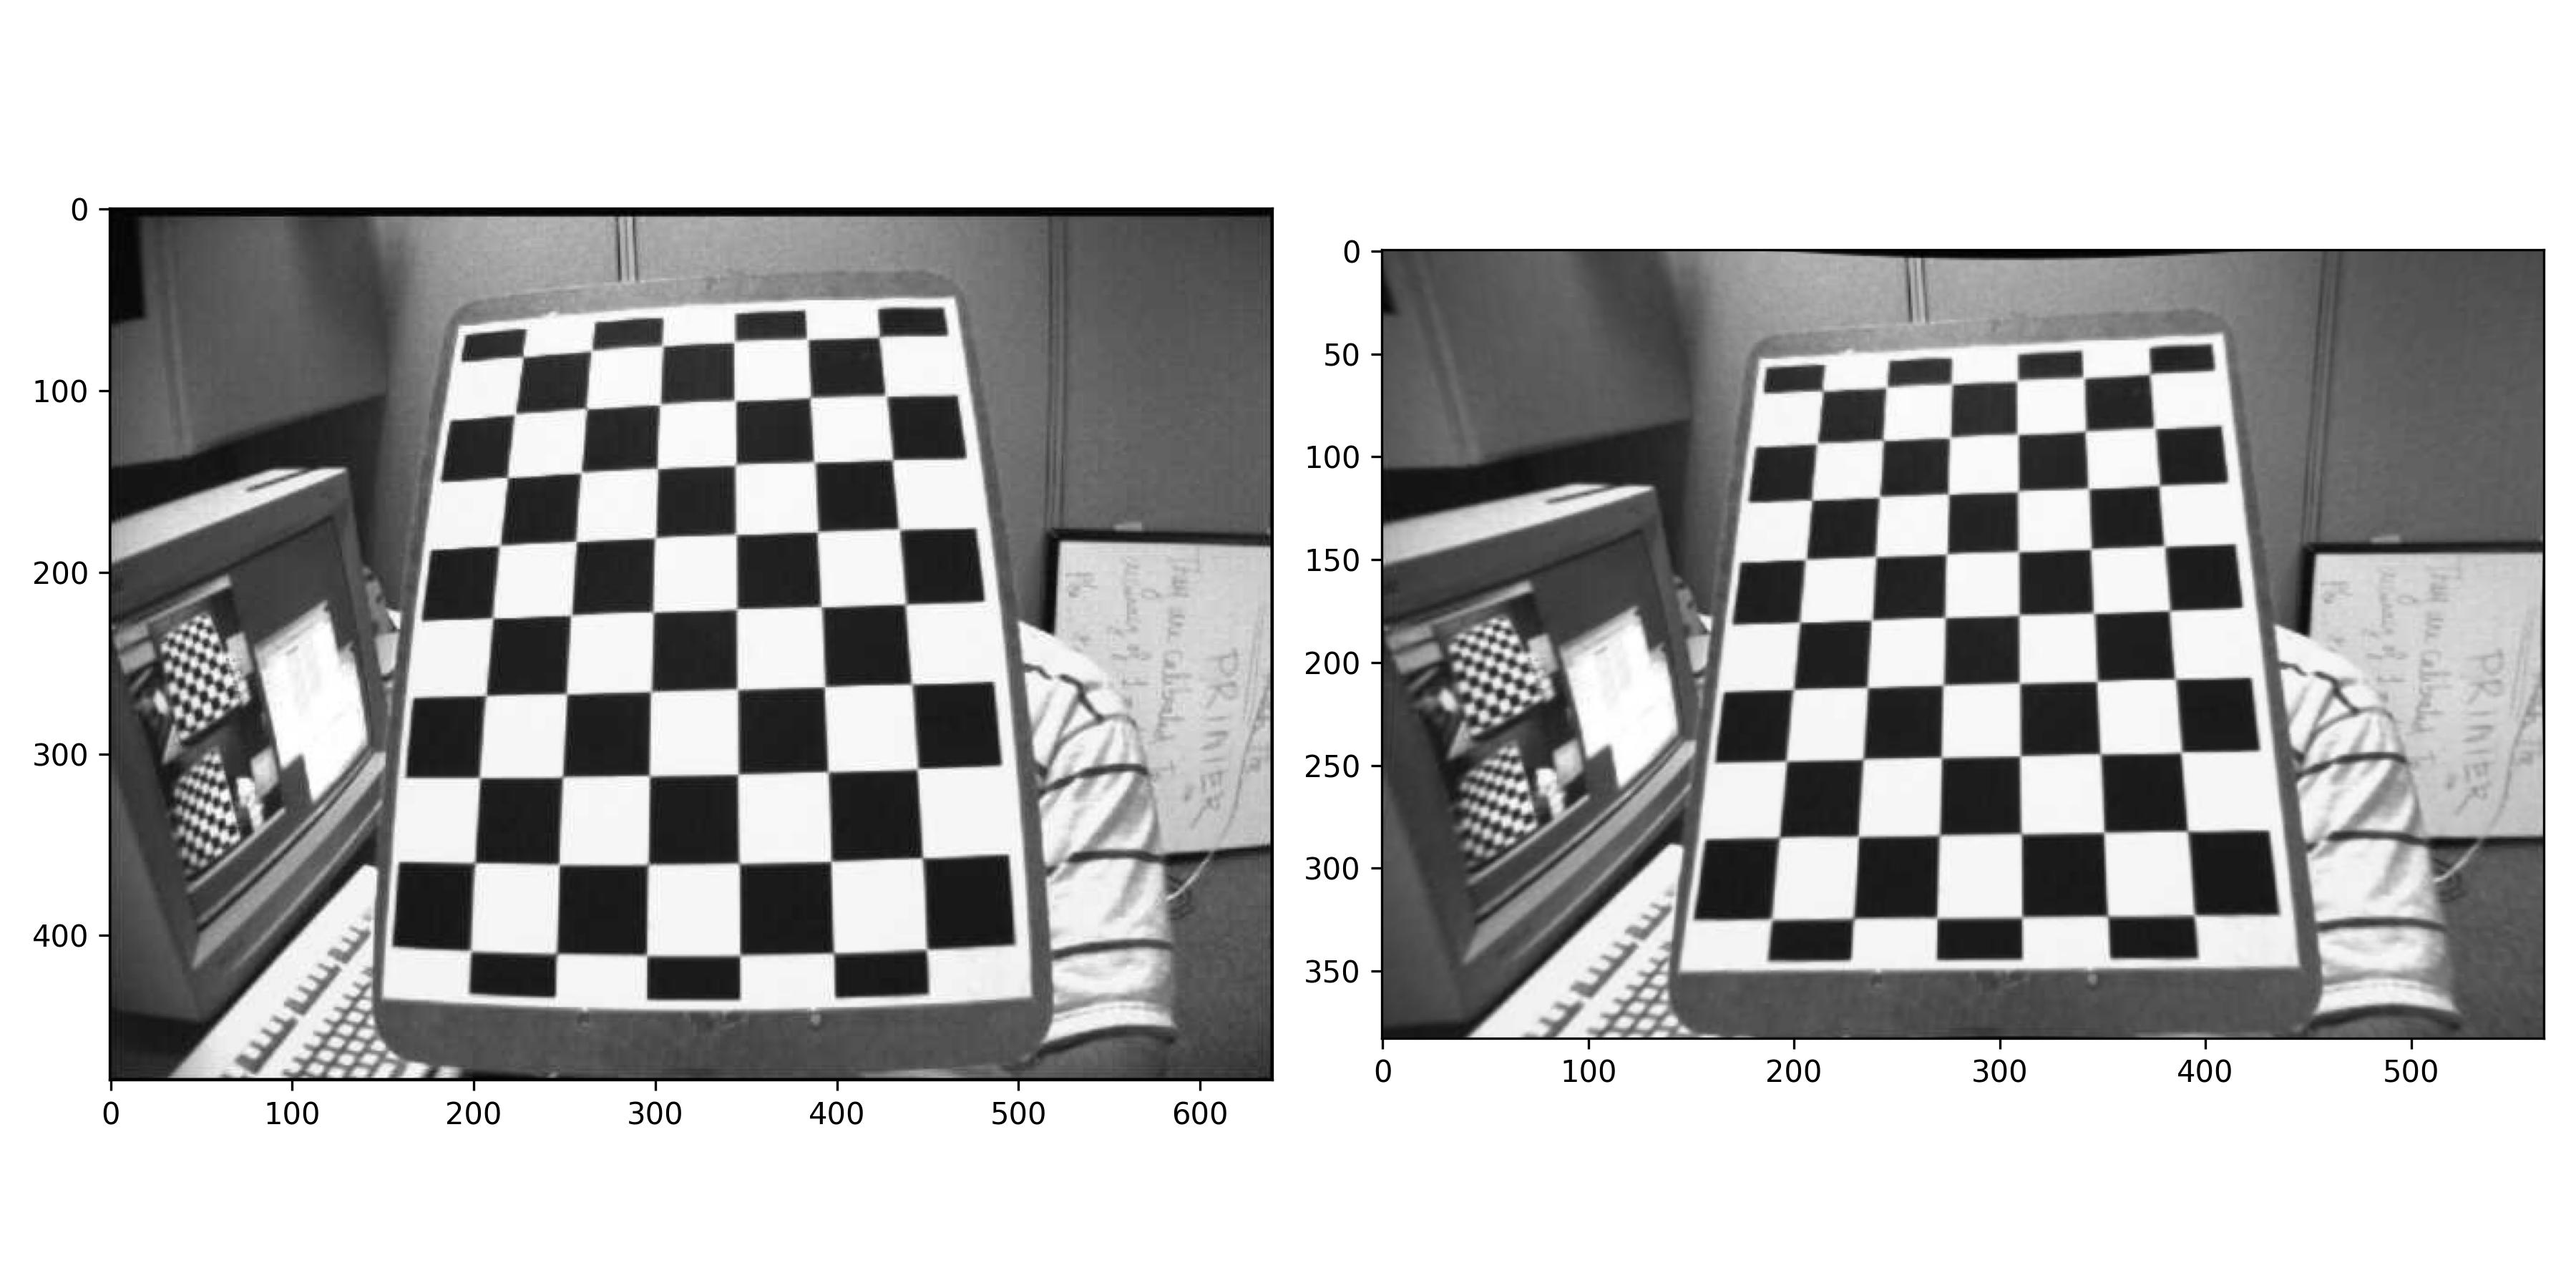
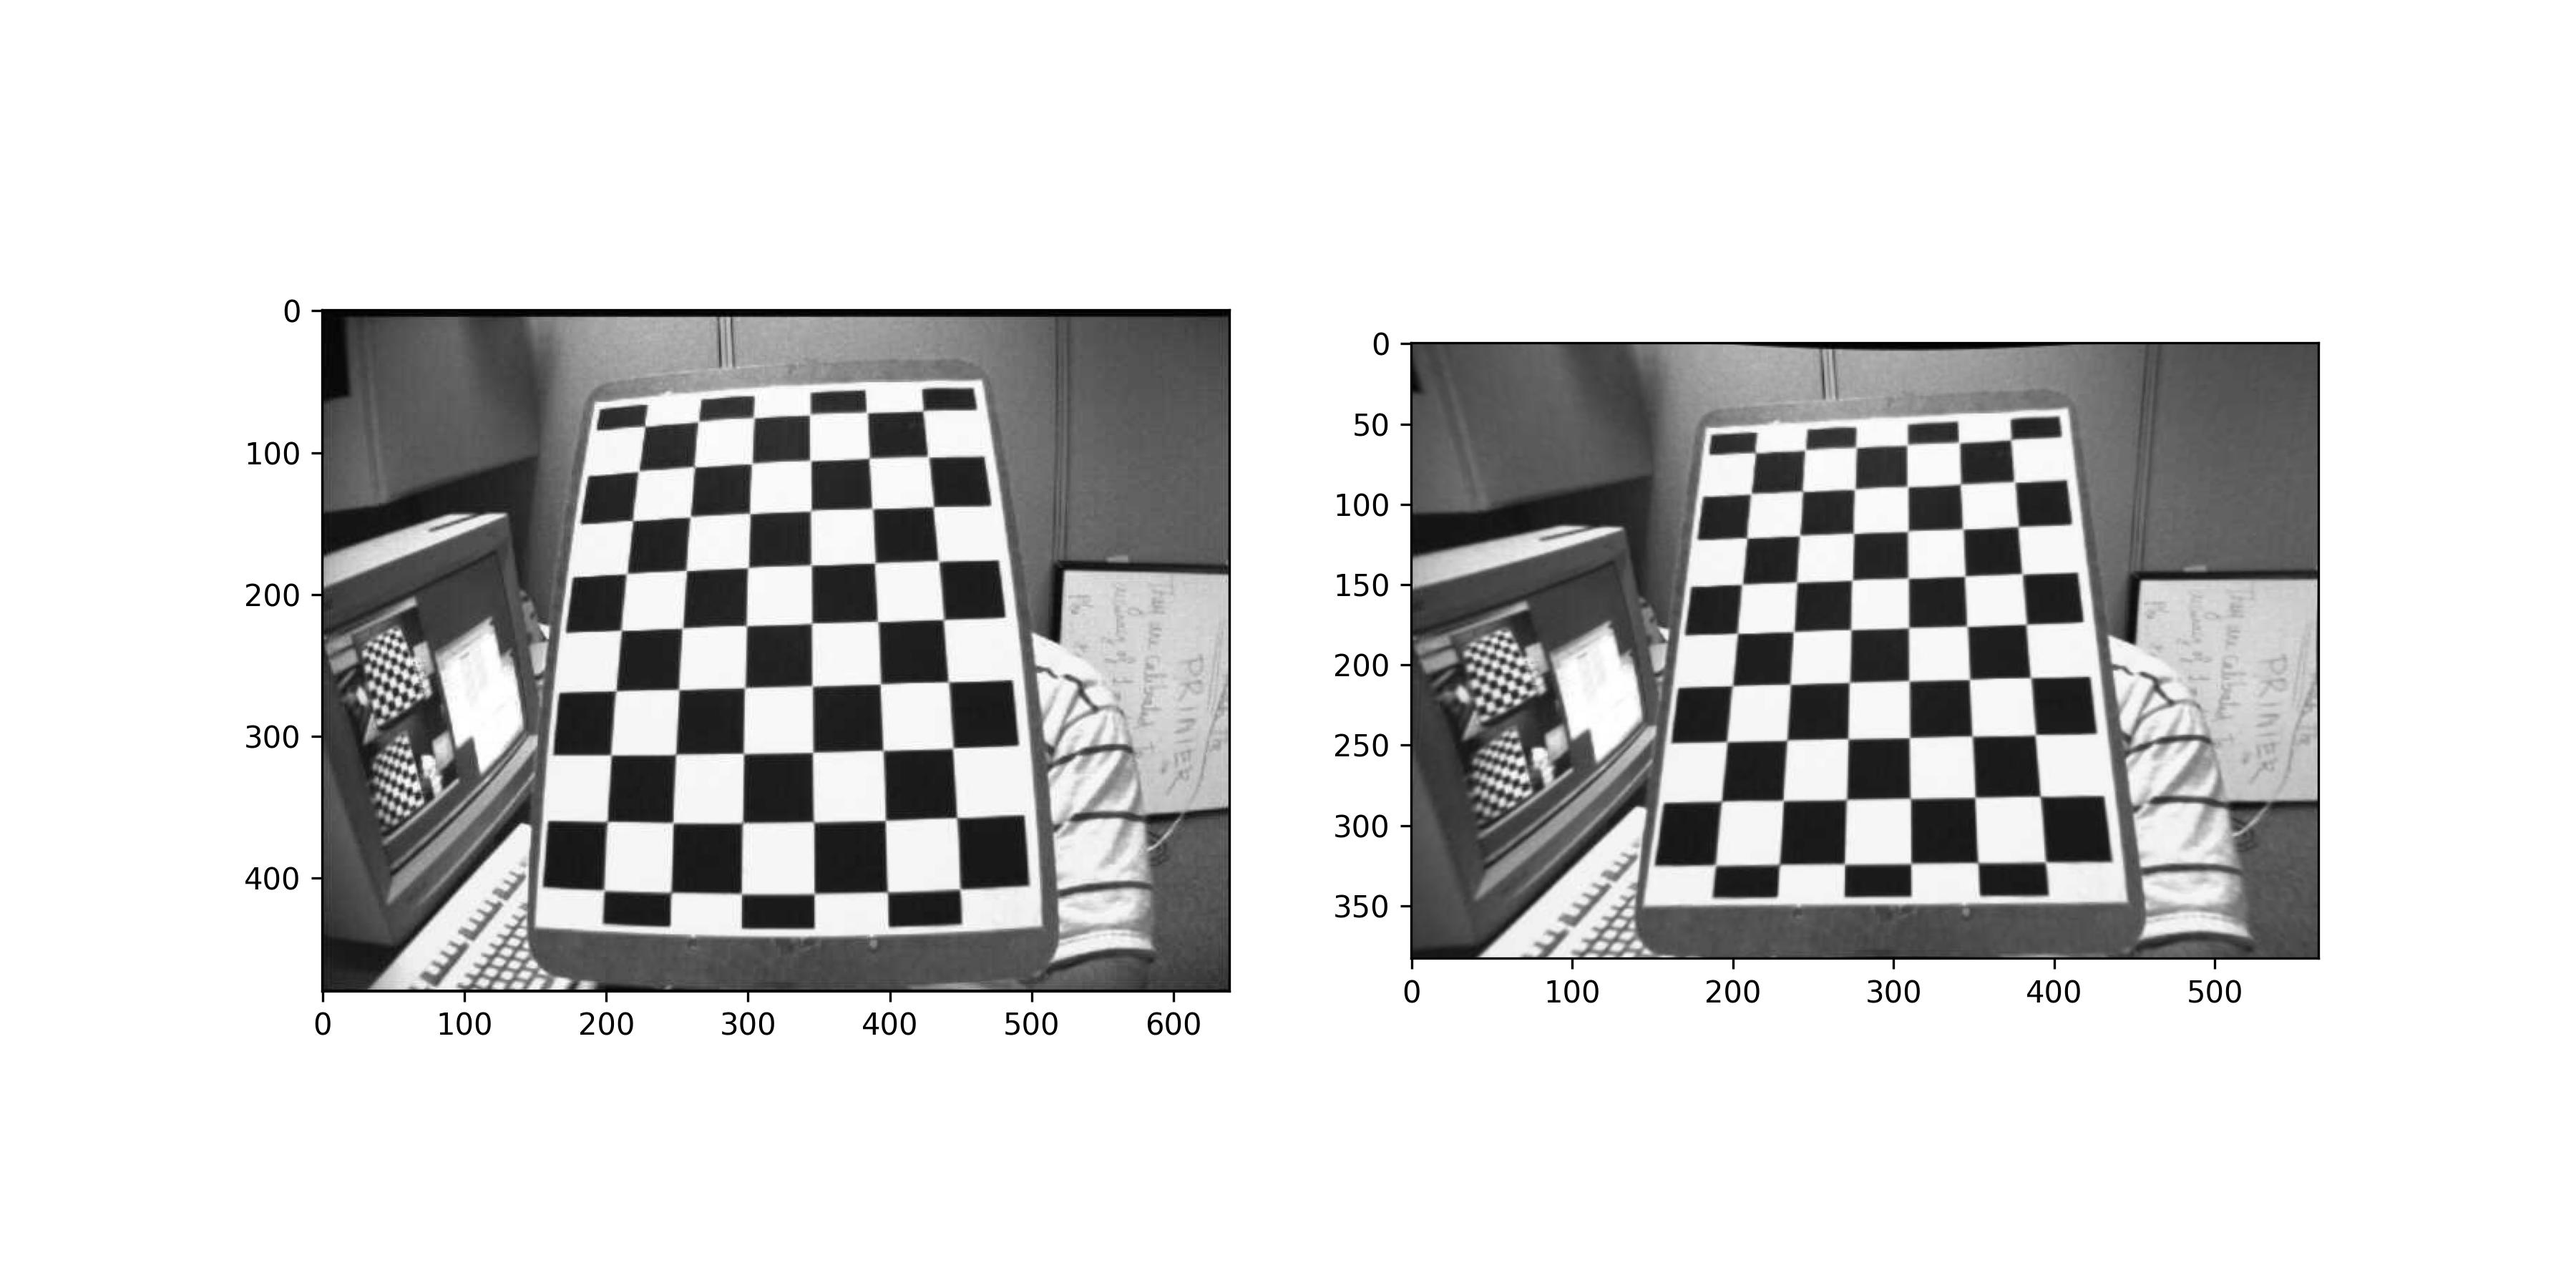
done

diff --git a/notes/core/camera_callibration/mycalibrator.py b/notes/core/camera_callibration/mycalibrator.py
@@ -47,7 +47,8 @@ class CameraCalibrator():
 				# draw and display the corners
 				cv.drawChessboardCorners(img, self.PATERN_SIZE, corners2, ret)
 
-			plt.imshow( cv.cvtColor(img, cv.COLOR_BGR2RGB) ); plt.title(fname); plt.savefig( os.path.join(os.path.abspath(__file__), '../img/im_found.jpg'), dpi=300 )
+		# save the last img
+		plt.imshow( cv.cvtColor(img, cv.COLOR_BGR2RGB) ); plt.title(fname); plt.savefig( os.path.join(os.path.abspath(__file__), '../img/im_found.jpg'), dpi=300 ); plt.show()
 		
 		# calibrate to get intrinsic & extrinsic properties
 		# mtx, dist are intrinsic | rvecs, tvecs are extrinsic
@@ -121,8 +122,8 @@ class CameraCalibrator():
 		x, y, w, h = roi
 		dst = dst[y:y+h, x:x+w]
 		
-		plt.imshow( cv.cvtColor(img, cv.COLOR_BGR2RGB) ); plt.savefig( os.path.join(os.path.abspath(__file__), '../img/im_distorted.jpg'), dpi=300 )
-		plt.imshow( cv.cvtColor(dst, cv.COLOR_BGR2RGB) ); plt.savefig( os.path.join(os.path.abspath(__file__), '../img/im_undistorted.jpg'), dpi=300 )
+		plt.imshow( cv.cvtColor(img, cv.COLOR_BGR2RGB) ); plt.savefig( os.path.join(os.path.abspath(__file__), '../img/im_distorted.jpg'), dpi=300 ); plt.show()
+		plt.imshow( cv.cvtColor(dst, cv.COLOR_BGR2RGB) ); plt.savefig( os.path.join(os.path.abspath(__file__), '../img/im_undistorted.jpg'), dpi=300 ); plt.show()
 		
 		return img, dst
 
@@ -134,9 +135,9 @@ class CameraCalibrator():
 		fig, axs = plt.subplots(1, 2, figsize=(12,6))
 		axs[0].imshow( cv.cvtColor(im1, cv.COLOR_BGR2RGB) )
 		axs[1].imshow( cv.cvtColor(im2, cv.COLOR_BGR2RGB) )
-		plt.tight_layout(); plt.savefig( os.path.join(os.path.abspath(__file__), '../img/im_compare.jpg'), dpi=300 )
+		plt.savefig( os.path.join(os.path.abspath(__file__), '../img/im_compare.jpg'), dpi=300 ); plt.show()
 
-		plt.imshow( cv.cvtColor(im_diff, cv.COLOR_BGR2RGB) ); plt.savefig( os.path.join(os.path.abspath(__file__), '../img/im_absdiff.jpg'), dpi=300 )
+		plt.imshow( cv.cvtColor(im_diff, cv.COLOR_BGR2RGB) ); plt.savefig( os.path.join(os.path.abspath(__file__), '../img/im_absdiff.jpg'), dpi=300 ); plt.show()
 		return im_diff
 
 	
